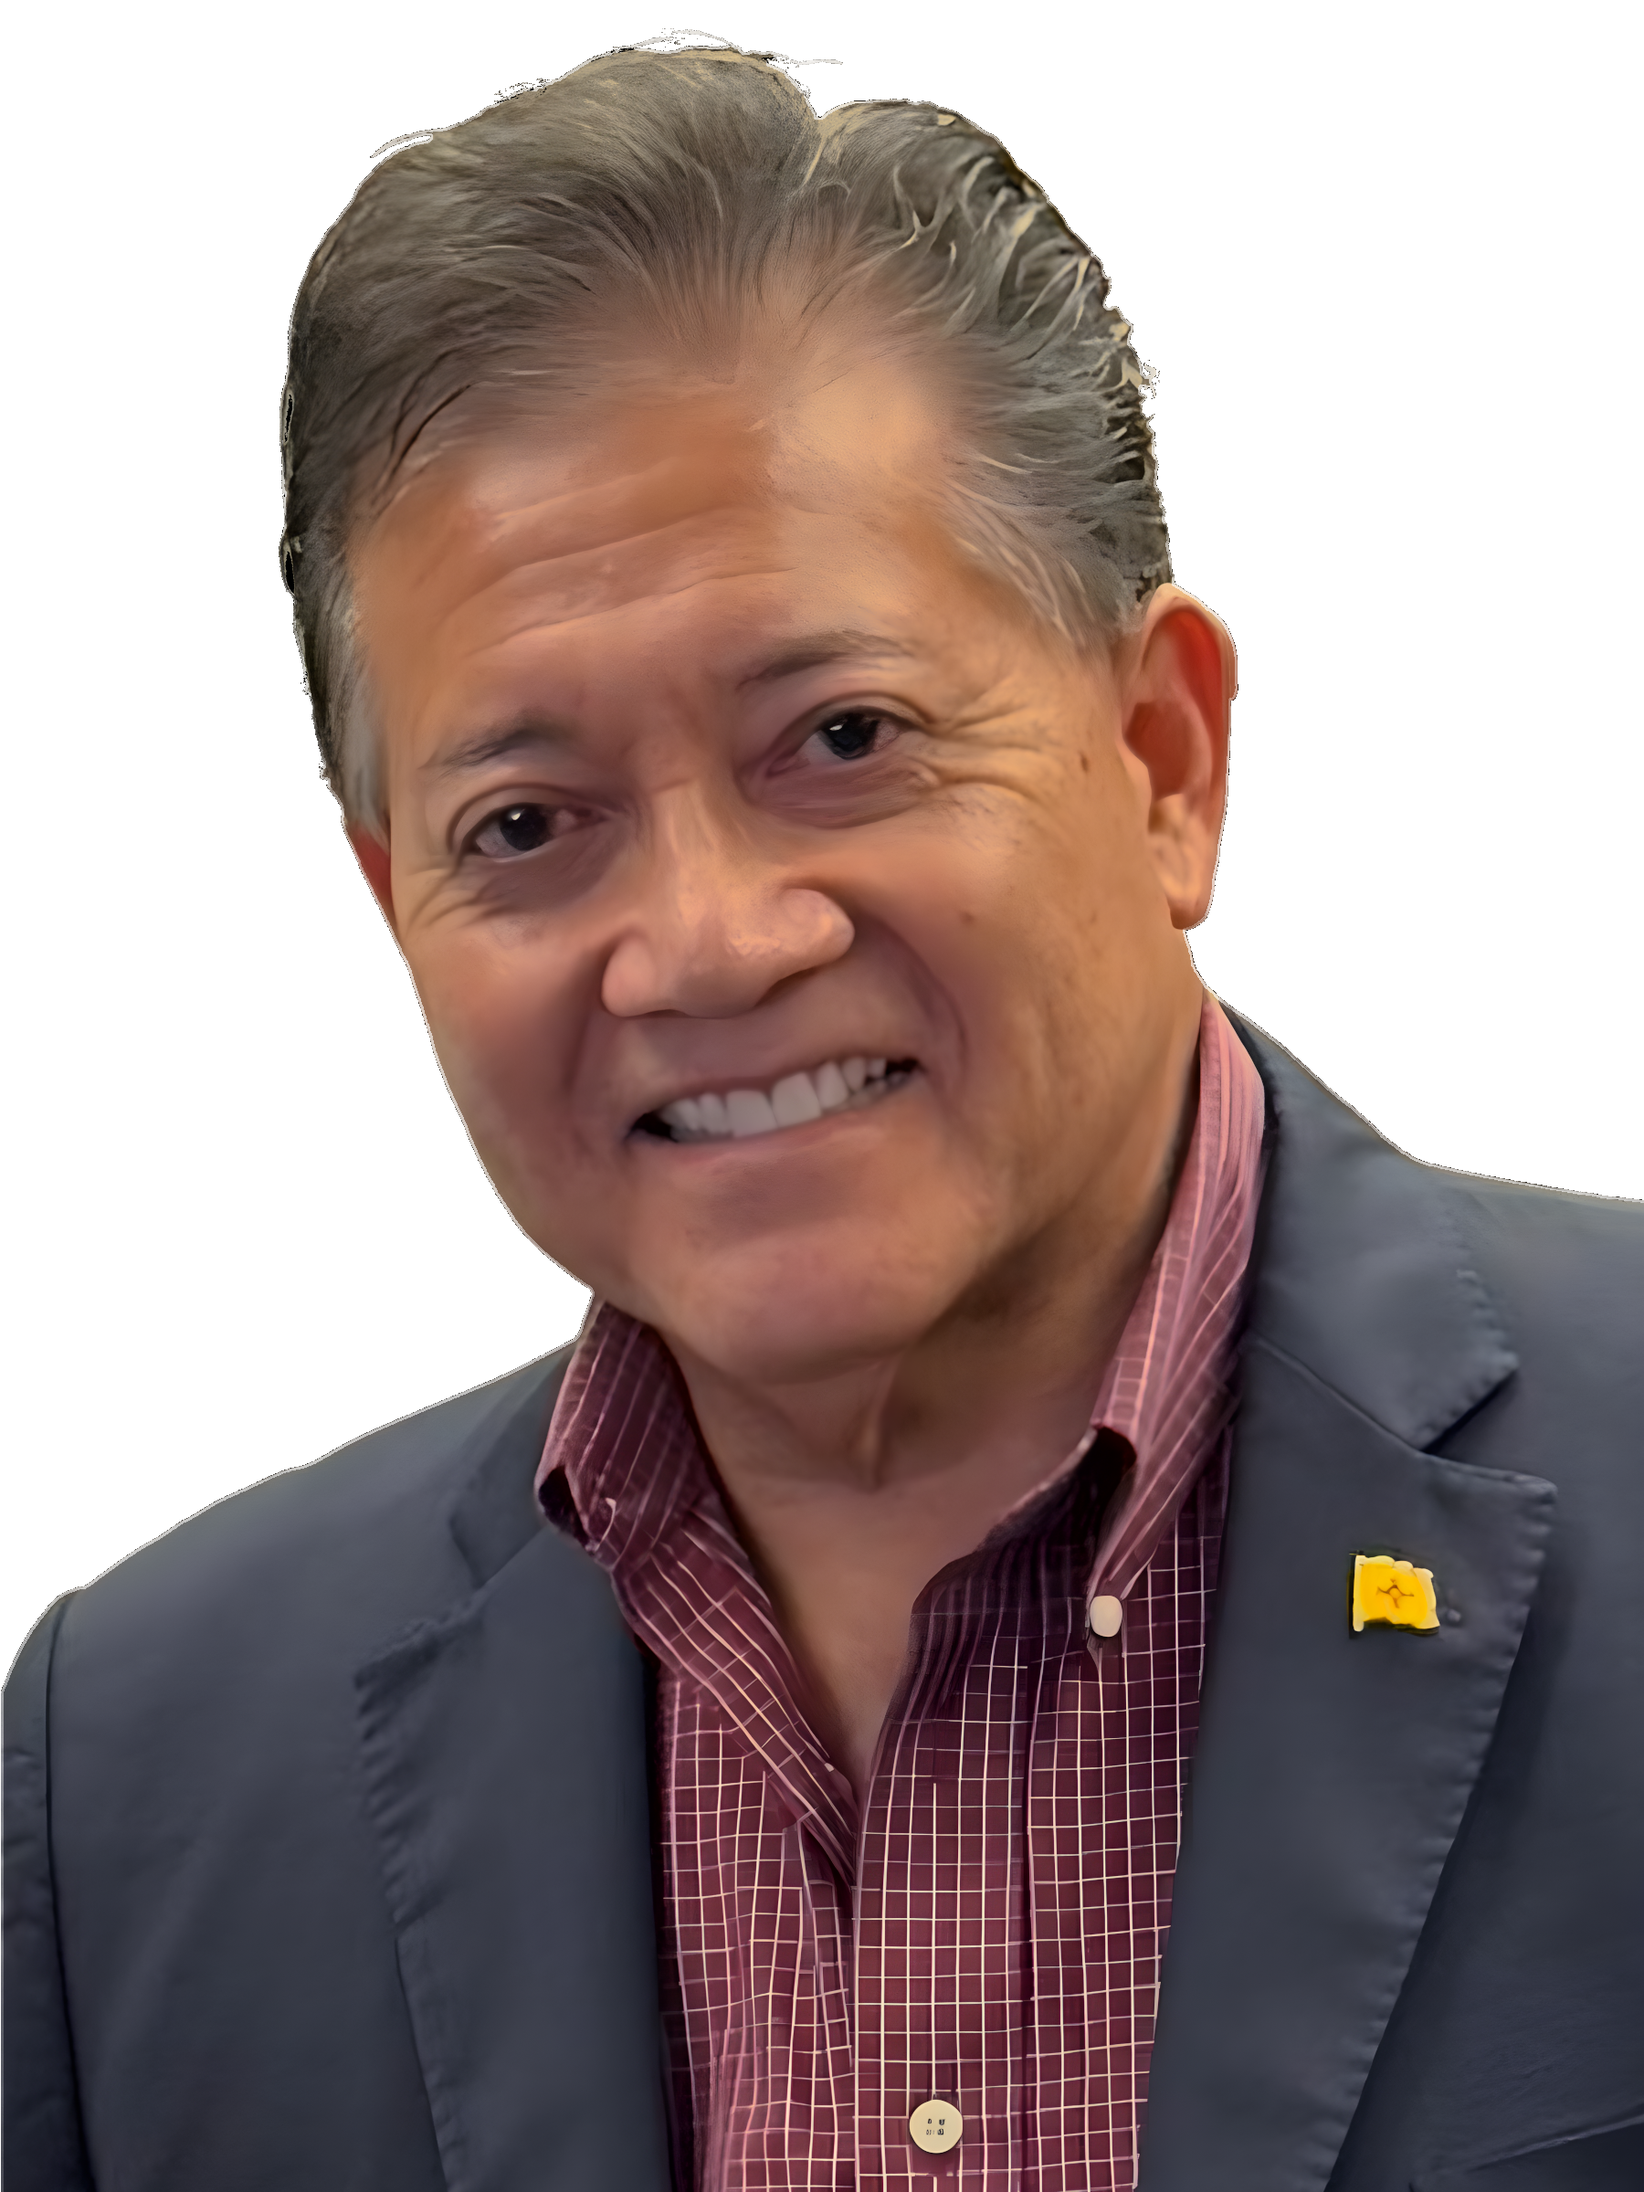
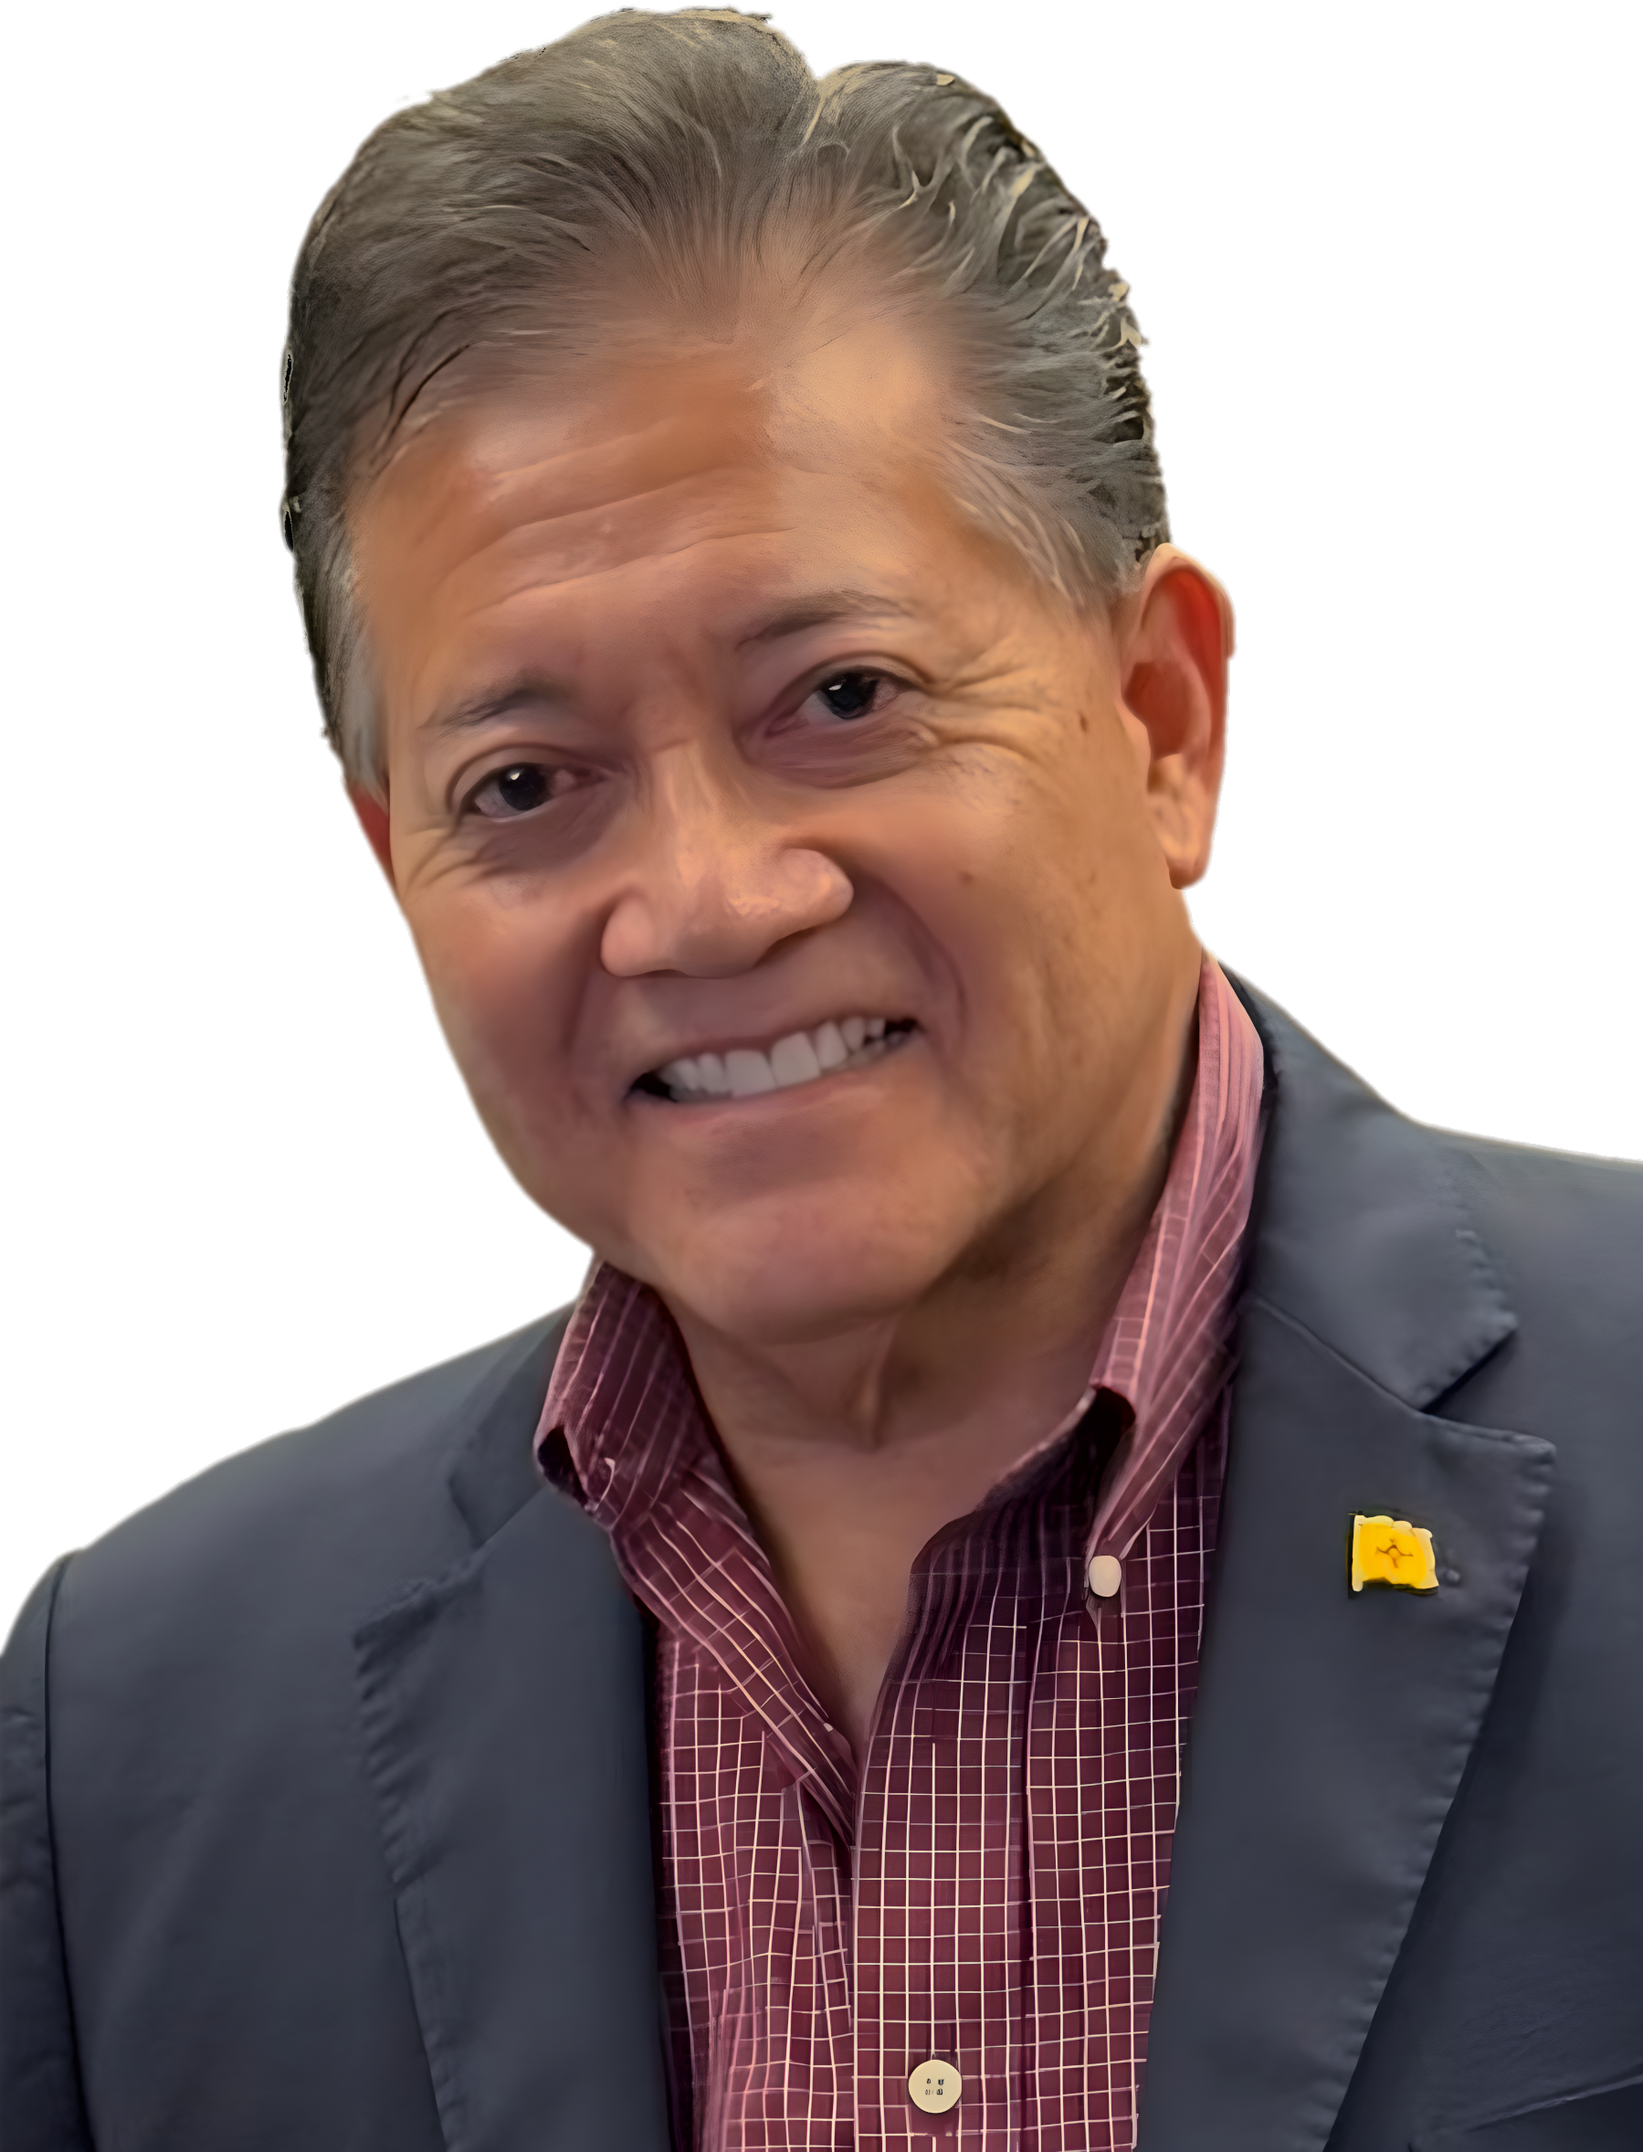
Fixed some visual errors.

diff --git a/index.html b/index.html
@@ -1,58 +1,59 @@
 <!doctype html>
 <html lang="en">
 
+<title>Ken for Governor</title>
+
 <head>
     <meta charset="UTF-8" />
     <meta name="viewport" content="width=device-width, initial-scale=1" />
     <title>Landing</title>
     <link rel="stylesheet" href="styles.css" />
-    <link rel="icon" type="image/png" sizes="32x32" href="/favicon.png">
+    <link rel="icon" type="image/png" sizes="32x32" href="/favicon.ico">
     <link rel="apple-touch-icon" sizes="180x180" href="/apple-touch-icon.png">
 </head>
 
 <body>
     <main class="page">
         <div class="frame">
-            <div class="stage">
-                <!-- HERO (yellow) -->
-                <section class="hero" aria-label="Landing hero">
-                    <div class="hero__content">
-                        <h1 class="hero__headline">
-                            <span>HELP ME</span>
-                            <span>GET ON THE</span>
-                            <span class="hero__headline--em">BALLOT!</span>
-                        </h1>
 
-                        <div class="hero__actions">
-                            <a class="btn btn--primary"
-                                href="https://www.electronicpetitions.elections.sos.nm.gov/voter-verification"
-                                target="_blank" rel="noopener noreferrer">
-                                Sign the Petition
-                            </a>
-                            <a class="btn btn--secondary" href="https://www.kenfornewmexico.com" target="_blank"
-                                rel="noopener noreferrer">
-                                Visit my Website
-                            </a>
-                        </div>
-                    </div>
-                </section>
+            <!-- HERO (yellow) -->
+            <section class="hero" aria-label="Landing hero">
+                <div class="hero__content">
+                    <h1 class="hero__headline">
+                        <span>HELP ME</span>
+                        <span>GET ON THE</span>
+                        <span class="hero__headline--em">BALLOT!</span>
+                    </h1>
 
-                <!-- FOOTER (blue) sits above art layer -->
-                <footer class="footer" aria-label="Footer">
-                    <div class="footer__inner">
-                        <a href="https://www.kenfornewmexico.com" target="_blank" rel="noopener noreferrer">
-                            <img class="footer__badge" src="images/badge.png" alt="Ken for Governor"
-                                aria-hidden="true" />
+                    <div class="hero__actions">
+                        <a class="btn btn--primary"
+                            href="https://www.electronicpetitions.elections.sos.nm.gov/voter-verification"
+                            target="_blank" rel="noopener noreferrer">
+                            Sign the Petition
                         </a>
-                        <div class="footer__text">FOR GOVERNOR</div>
+                        <a class="btn btn--secondary" href="https://www.kenfornewmexico.com" target="_blank"
+                            rel="noopener noreferrer">
+                            Visit my Website
+                        </a>
                     </div>
-                </footer>
+                </div>
 
                 <!-- ART LAYER: movable box -->
                 <div class="artbox" aria-hidden="true">
                     <img class="artbox__img" src="images/hero.png" alt="Ken for Governor" />
                 </div>
-            </div>
+            </section>
+
+            <!-- FOOTER (blue) sits above art layer -->
+            <footer class="footer" aria-label="Footer">
+                <div class="footer__inner">
+                    <a href="https://www.kenfornewmexico.com" target="_blank" rel="noopener noreferrer">
+                        <img class="footer__badge" src="images/badge.png" alt="Ken for Governor" aria-hidden="true" />
+                    </a>
+                    <div class="footer__text">FOR GOVERNOR</div>
+                </div>
+            </footer>
+
         </div>
     </main>
 </body>

diff --git a/styles.css b/styles.css
@@ -3,21 +3,11 @@
     --bg-hero: #f0d21a;
     --indigo: #4b4aa6;
 
-    /* ✅ ARTBOX CONTROLS (edit these) */
-    --art-x: 79%;
-    /* left position of box (percentage of frame width) */
-    --art-y: 10px;
-    /* top position of box */
-    --art-w: 520px;
-    /* box width */
-    --art-h: 680px;
-    /* box height (can extend under footer) */
+    --artbox-w: 520px;
+    --artbox-h: 560px;
     --art-scale: 1.08;
-    /* scale image inside the box */
-    --art-ox: 60%;
-    /* image anchor inside box (x) */
-    --art-oy: 10%;
-    /* image anchor inside box (y) */
+    --art-ox: 00%;
+    --art-oy: 0%;
 }
 
 * {
@@ -50,32 +40,28 @@ body {
     overflow: hidden;
 }
 
-/* stage is the only area where yellow/blue/art live */
-.stage {
-    position: relative;
-    overflow: hidden;
-    /* ✅ clips artbox */
-    background: transparent;
-}
-
 /* HERO */
 .hero {
     background: var(--bg-hero);
     position: relative;
-    z-index: 1;
+    overflow: hidden;
+    min-height: max(var(--artbox-h), 520px);
+    /* keep at least artbox height */
 }
 
 .hero__content {
     width: min(1100px, 100%);
     margin: 0 auto;
     padding: 52px 28px 28px;
-
-    /* Reserve space so text doesn't collide with artbox */
-    padding-right: clamp(320px, 42vw, 720px);
+    padding-right: calc(var(--artbox-w) + 36px);
+    min-height: 520px;
+    display: flex;
+    flex-direction: column;
 }
 
 .hero__headline {
     margin: 0;
+    white-space: nowrap;
     color: var(--indigo);
     font-weight: 900;
     letter-spacing: 0.06em;
@@ -93,10 +79,11 @@ body {
 }
 
 .hero__actions {
-    margin-top: 22px;
+    margin-top: auto;
+    margin-bottom: auto;
     display: grid;
     gap: 14px;
-    width: min(360px, 100%);
+    max-width: 360px;
 }
 
 .btn {
@@ -125,10 +112,8 @@ body {
 /* FOOTER sits above the art layer */
 .footer {
     background: var(--indigo);
-    /* padding: 18px 0; */
+    padding: 18px 0;
     position: relative;
-    z-index: 3;
-    /* ✅ above artbox */
 }
 
 .footer__inner {
@@ -149,6 +134,7 @@ body {
 }
 
 .footer__text {
+    white-space: nowrap;
     text-align: right;
     color: var(--bg-hero);
     font-weight: 900;
@@ -157,53 +143,41 @@ body {
     font-size: clamp(22px, 3vw, 46px);
 }
 
-/* ✅ ARTBOX: the movable “window” */
 .artbox {
     position: absolute;
-    left: var(--art-x);
-    top: var(--art-y);
-    width: var(--art-w);
-    height: var(--art-h);
-
-    transform: translateX(-50%);
-    /* so --art-x acts like an anchor point */
-
-    z-index: 2;
-    /* ✅ between hero and footer */
+    right: 0;
+    bottom: 0;
+    /* anchors to bottom of hero */
+    width: var(--artbox-w);
+    height: var(--artbox-h);
+    /* full hero height */
     pointer-events: none;
     overflow: hidden;
-    /* ✅ image can be bigger but clipped to box */
-    border-radius: 0;
 }
 
 .artbox__img {
     width: 100%;
     height: 100%;
-    object-fit: contain;
-    /* keep full head if possible */
+    object-fit: cover;
+    object-position: var(--art-ox) var(--art-oy);
     transform: scale(var(--art-scale));
     transform-origin: var(--art-ox) var(--art-oy);
-
     display: block;
-    filter: drop-shadow(0 12px 26px rgba(0, 0, 0, 0.18));
+    /* filter: drop-shadow(0 12px 26px rgba(0, 0, 0, 0.18)); */
 }
 
 /* Mobile: simplify (stack) */
 @media (max-width: 860px) {
     .hero__content {
         padding-right: 28px;
-        padding-top: 32px;
     }
 
-    /* Put the artbox below content and above footer */
     .artbox {
         position: relative;
-        left: auto;
-        top: auto;
-        transform: none;
+        right: auto;
+        bottom: auto;
         width: 100%;
-        height: 360px;
-        z-index: 2;
+        height: 380px;
     }
 
     .footer__inner {
